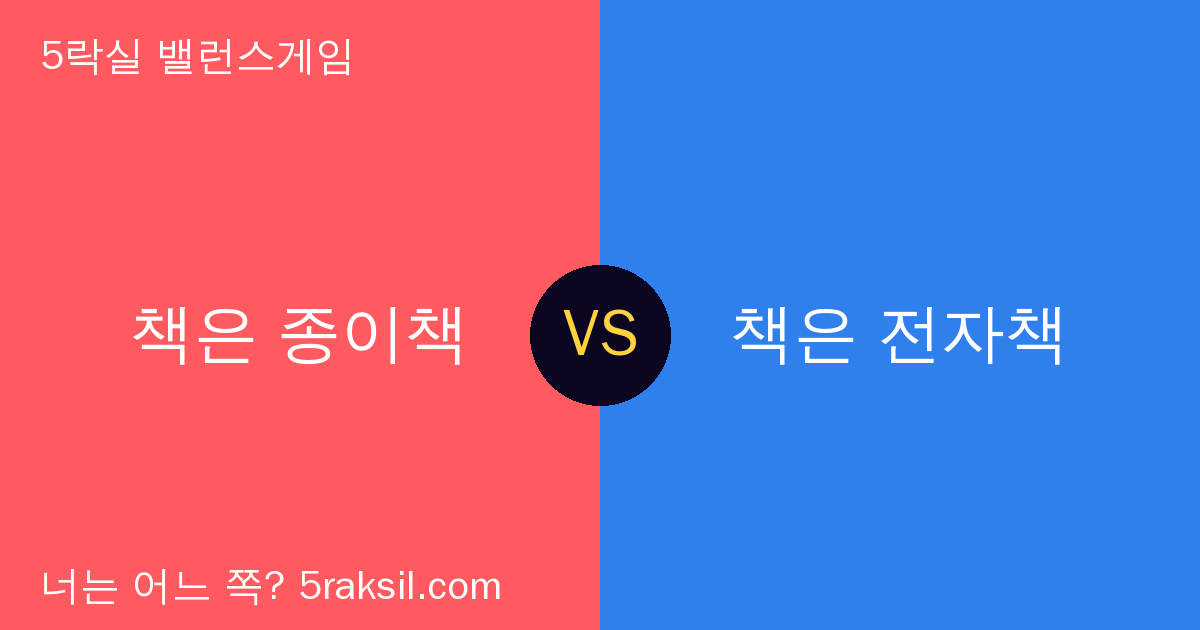
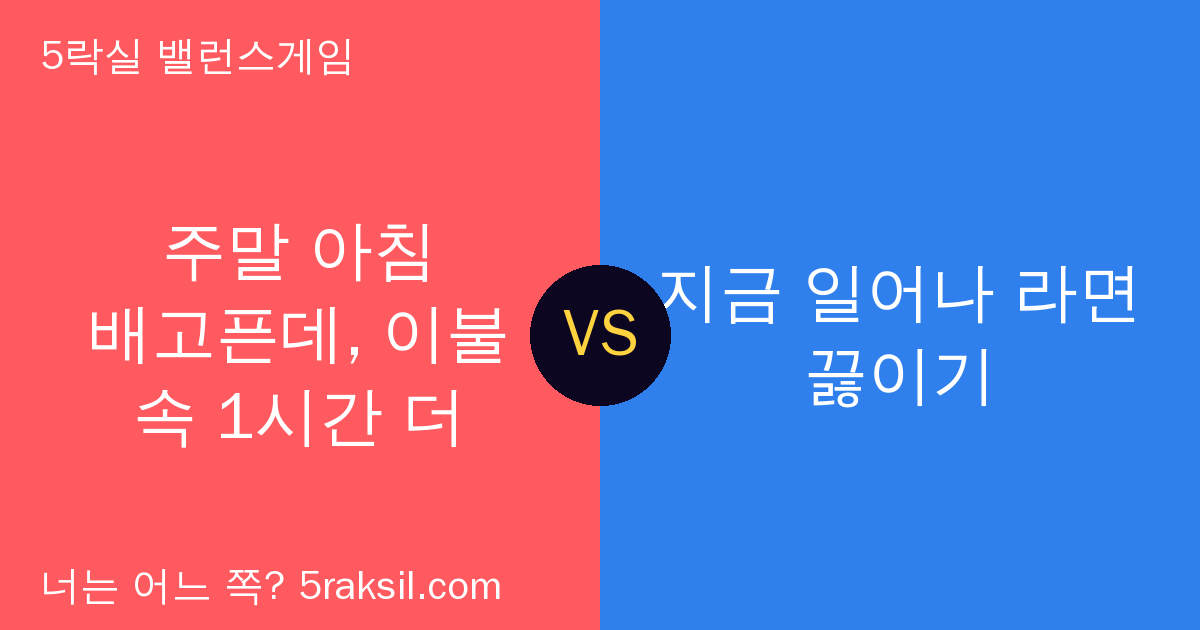
5락실 11/24~30 쇼츠 질문을 새 틀(상황 + 잃는 것이 다른 A·B) 7개로 교체 (BK '1번 넣어요')
Claude-Session: https://claude.ai/code/session_01MeQV9raUB7bACcbSCrP1V5

diff --git a/docs/DIRECTION.md b/docs/DIRECTION.md
@@ -163,6 +163,7 @@ BK가 정한 상시 규칙. 어떤 작업도 예외 없음. 세부 작업 규칙
 ```
 
 ## 결정 기록 (최신이 위)
+- 2026-11-23 09:25: 5락실 11/24~30 쇼츠 질문 7개를 주간 쇼츠 기획안(11/23 월요 갱신판 2장)의 새 틀 질문으로 바꿈 (BK '1번 넣어요'). 날마다 -1 질문을 바꿔 쇼츠가 고르게 함(하루 3개 상한 그대로, 아직 공개 전이라 투표 없음). 바뀐 것: 마라탕·연봉 출근·배그 낙하·집들이 선물·종이책·설거지·마크 서버 → 알람 아침·첫눈 퇴근길·금요일 밤 '지금 나와'·단톡방 사진·주말 아침 이불·일요일 밤 옷·연말 모임 답장. 겹침 점검: 11/22 질문 기본 틀·생활 질문만(고정)과 같은 방향, 게임 이름 질문 2개가 빠짐, 품질 게이트·다시 짜기는 그대로(질문이 미달이면 여전히 다시 짬).
 - 2026-11-23 09:30: 삼촌 쇼츠 돈 강조 말 자동 점검 (BK 09:13 김치찌개 편 Studio 화면 '제목을 뭐로 바꿔' → 영상 안 동전 날림·돼지저금통·'돈이 돌아온다!' 자막 발견). 원인: 찌개 편은 11/19 옛 방향으로 조립된 본(자막·제목에 금액)이 quality_ok false 로 쉬다가, 11/22 20:06 BK 카드 '오늘 바로 공개' + 'veo 크레딧 쓴 것은 예외'로 youtube 수동 실행(slug 지정 + 바로 공개)이 품질 게이트를 거치지 않는 길로 그대로 나감. 예외는 클립(그림)만인데 옛 자막·제목까지 같이 나감. 고침: 조립·업로드 양쪽에서 띠·자막·제목 돈 말 점검, 수동 실행도 게이트를 거치고 넘기려면 force. 올린 영상은 안 건드림(다시 올리기 금지). 겹침 점검: 11/22 '이미 만든 Veo 클립 예외'(그림)와 충돌 없음, 11/21 제목 돈 액수 금지·11/20 밤 돈 강조 금지와 같은 방향. 11/24·26·28·30 편 제목·자막은 점검 통과.
 - 2026-11-22 21:30: 쇼츠 글자 잘림 고침 (BK 21:23 '유튜브 실행하면 오락실 쇼츠 글자가 짤리네, 삼촌 쇼츠도 체크' → 21:26 '네'): 원인 = 제목 띠를 화면 맨 위(y 0~330/360)에 둬서 홈 피드 미리보기(가운데 기준 위아래 자르기)에서 잘림. 5락실은 장면 전체를 안전 구역(y 290~1568)으로 줄여 옮기고, 삼촌은 띠 y 290~590·자막 y 400(띠 없을 때)으로, Veo 프롬프트 'top quarter'→'top third'. 형식 고정(PR #343)은 그대로, 위치·크기만. 겹침 점검: 11/20 띠 결정(맨 위 360px)과 AI_CLIPS '위 1/4 비우기'를 대체.
 - 2026-11-22 21:20: 5락실 밸런스 질문 기본 틀 (BK '넣어'): 상황 조건 하나 + A·B 가 잃는 것이 달라 고르는 기준이 갈리게. 질문 예약 작업(21:37) 지시와 쇼츠 다시 짜기(REPLAN_SYS)에 넣음. 11/22 편은 28/40 최후 기준으로 올라감(https://youtu.be/2qMqaTXlCmQ), 쉰 기록이 같은 질문 재도전을 막던 버그 PR #348. 겹침 점검: 품질 게이트·연쇄 질문·주간 테마와 충돌 없음(조건을 더하는 쪽), 질문 금지 항목 그대로.
